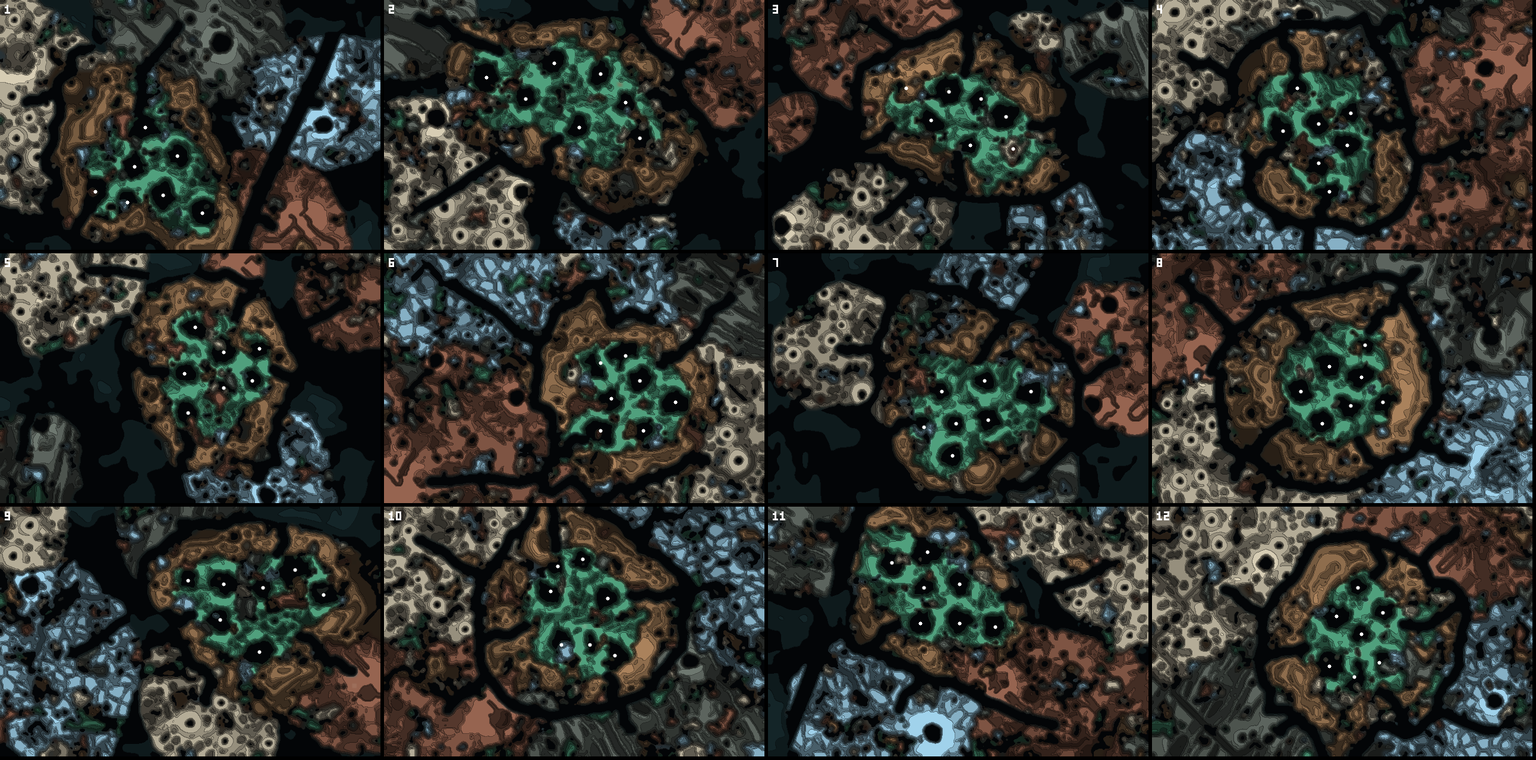
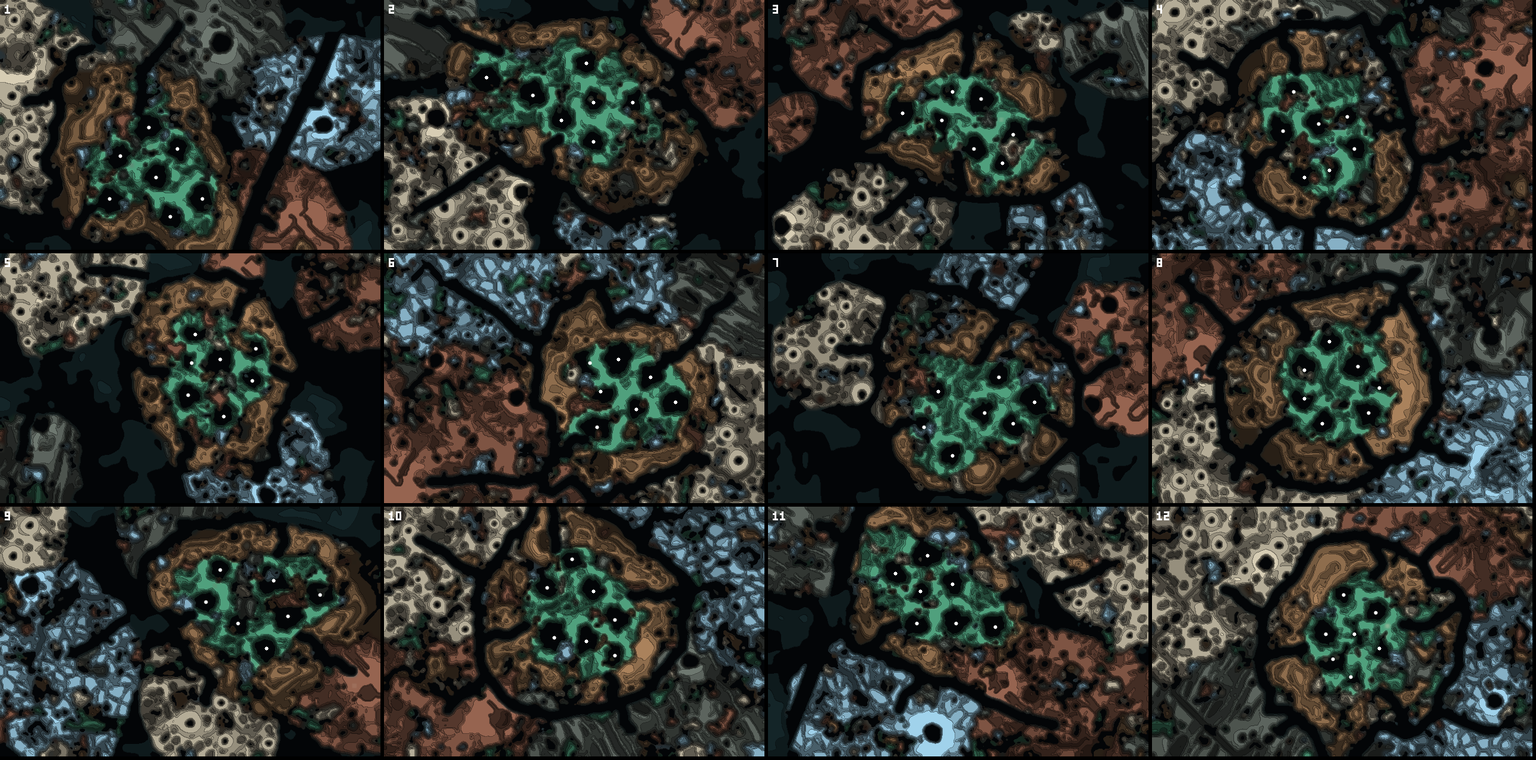
Mounds stay on lagoon floor and clear of each other; README for layouts, patterns and the lab
A mound could land on a border blob of another place inside the lagoon (so it was never
raised and the start sat in open water), or close enough to a neighbour for its rim to
wall in the other's middle. Spots with clear lagoon all round are now taken first, and a
new check fails any map with a start in a wall or off the lagoon.

README: layout styles and knobs, the pattern library, the terrain lab, the tools.
Lab: the seed strip hides while swimming. Screenshots of the lab and the dev panel.

Claude-Session: https://claude.ai/code/session_016iv8YUCfChchVkbnNTN3uN

diff --git a/public/worldgen.js b/public/worldgen.js
@@ -26,7 +26,6 @@ function vnoise(g, x, y){
   return (a(i, j) * (1 - sx) + a(i + 1, j) * sx) * (1 - sy) + (a(i, j + 1) * (1 - sx) + a(i + 1, j + 1) * sx) * sy;
 }
 const fbm = (g, x, y) => vnoise(g, x, y) * 0.55 + vnoise(g, x * 2.03 + 17.1, y * 2.03 + 3.3) * 0.28 + vnoise(g, x * 4.1 + 5.7, y * 4.1 + 29.2) * 0.17;
-const segDist = (x, y, a, b) => { const dx = b.x - a.x, dy = b.y - a.y, L = dx * dx + dy * dy; let t = L ? ((x - a.x) * dx + (y - a.y) * dy) / L : 0; t = t < 0 ? 0 : t > 1 ? 1 : t; const ex = x - a.x - t * dx, ey = y - a.y - t * dy; return Math.sqrt(ex * ex + ey * ey); };
 function blur(a, GX, GY, r){
   const t = new Float32Array(a.length);
   for (let j = 0; j < GY; j++){ let s = 0, c = 0; for (let i = -r; i < GX + r; i++){ if (i + r < GX){ s += a[j * GX + i + r]; c++; } if (i - r - 1 >= 0){ s -= a[j * GX + i - r - 1]; c--; } if (i >= 0 && i < GX) t[j * GX + i] = s / c; } }
@@ -52,7 +51,6 @@ const LAYOUTS = {
   continent:  {off:1,    long:0.45, vary:1,   sea:0,    arc:0.5,  strait:0},
   archipelago:{off:0.6,  long:0.6,  vary:0.8, sea:1,    arc:0.45, strait:0},
   strait:     {off:0.8,  long:0.8,  vary:0.7, sea:0.3,  arc:0.45, strait:1}};
-const LAYOUT_NAMES = Object.keys(LAYOUTS);
 /* 'auto' draws from this list: the ring, the layout closest to the old map, comes up half as often as the others */
 const AUTO = ['ring', 'crescent', 'crescent', 'continent', 'continent', 'archipelago', 'archipelago', 'strait', 'strait'];
 
@@ -507,14 +505,20 @@ function build(o){
   const pang = (dx, dy) => { const q = dx / ((dx < 0 ? -dx : dx) + (dy < 0 ? -dy : dy) || 1); return dy < 0 ? 3 + q : 1 - q; };   /* a pseudo-angle: grows with the true angle, plain arithmetic only */
   {
     const belt = [], pad = p.rin + p.rim, lo = mix(0.5, 0.2, A), hi = mix(0.62, 0.66, A);
-    for (let y = pad; y <= H - pad; y += 60) for (let x = pad; x <= W - pad; x += 60){ const d = dn(x, y); if (d > lo && d < hi) belt.push({x, y}); }
+    /* a spot counts only if it and the ground around it are lagoon: border blobs of other places reach into the
+       lagoon, and a mound can only be raised on lagoon floor */
+    const lagoonAt = (x, y) => zone[cellOf(x, y)] === 0, rr = p.rin * 0.7;
+    const clear = (x, y) => { if (!lagoonAt(x, y)) return false; let hit = 0; for (let k = 0; k < 8; k++) if (lagoonAt(x + rr * dcos(k * PI / 4), y + rr * dsin(k * PI / 4))) hit++; return hit >= 7; };
+    for (let y = pad; y <= H - pad; y += 60) for (let x = pad; x <= W - pad; x += 60){ const d = dn(x, y); if (d > lo && d < hi && lagoonAt(x, y)) belt.push({x, y, clear:clear(x, y)}); }
     const taken = [];
     if (belt.length >= p.mounds * 4){
-      taken.push(belt[Math.floor(r() * belt.length)]);
-      while (taken.length < p.mounds){ let best = null, bv = -1;
+      { const first = belt.filter(q => q.clear), from = first.length ? first : belt; taken.push(from[Math.floor(r() * from.length)]); }
+      /* spots with clear lagoon all round come first; if none of those is far enough from the mounds already placed
+         (a mound's rim must not land on its neighbour's middle), any lagoon spot will do */
+      while (taken.length < p.mounds){ let best = null, bv = -1, any = null, av = -1;
         for (const q of belt){ let md = Infinity; for (const t of taken){ const dx = q.x - t.x, dy = q.y - t.y, v = dx * dx + dy * dy; if (v < md) md = v; }
-          const v = Math.sqrt(md) * (1 + 0.3 * A * fbm(g[3], q.x / 400 + 9, q.y / 400)); if (v > bv){ bv = v; best = q; } }
-        taken.push(best); }
+          const v = Math.sqrt(md) * (1 + 0.3 * A * fbm(g[3], q.x / 400 + 9, q.y / 400)); if (v > av){ av = v; any = q; } if (q.clear && v > bv){ bv = v; best = q; } }
+        taken.push(best && bv > p.rin * 1.9 ? best : any); }
     } else for (let k = 0; k < p.mounds; k++) taken.push(at(a0 + TAU * k / p.mounds + (r() - 0.5) * 0.3, 0.56 * (1 + (r() - 0.5) * 0.12)));
     /* in order round the centre, so each mound's neighbour (for doorways and letter pockets) is the next one along */
     taken.map(q => ({q, a:pang(q.x - cx, q.y - cy)})).sort((u, v) => u.a - v.a).forEach(({q, a}, k) => { const rin = p.rin * (0.85 + r() * 0.3);
@@ -632,7 +636,9 @@ function build(o){
     let lag = 0, mid = 0; for (let n = 0; n < N; n++) if (zone[n] === 0){ lag++; if (E[n] >= 0.14 && E[n] < 0.62) mid++; }
     checks.lagoonMid = lag ? mid / lag : 0;
     checks.mounds = mounds.length;
-    checks.ok = checks.unlinked.length === 0 && checks.small.length === 0 && checks.missing.length === 0 && checks.lagoonMid >= 0.35 && checks.spawnSpread < 0.8 && mounds.length === p.mounds;
+    /* no start may be walled in by its neighbour's rim, or pushed off the lagoon */
+    checks.badStarts = spawns.filter(sp => { const n = cellOf(sp.x, sp.y); return E[n] >= WALL || zone[n] !== 0; }).length;
+    checks.ok = checks.unlinked.length === 0 && checks.small.length === 0 && checks.missing.length === 0 && checks.badStarts === 0 && checks.lagoonMid >= 0.35 && checks.spawnSpread < 0.8 && mounds.length === p.mounds;
     checks.score = (checks.ok ? 10 : 0) - checks.unlinked.length * 2 - checks.small.length * 2 - checks.missing.length + checks.lagoonMid - checks.spawnSpread;
   }
   /* lanes: deep channels, streams and lava channels. Textures fade out over them so travel lanes stay open */

diff --git a/public/lab/terrain.html b/public/lab/terrain.html
@@ -50,6 +50,7 @@
   .strip .th[aria-pressed="true"]{border-color:var(--stain);background:rgb(167 139 250 / .18);color:var(--ink)}
   .strip label{font-size:12px;color:var(--muted);white-space:nowrap} .strip input{width:64px;font:inherit;background:#0d1715;color:var(--ink);border:1px solid var(--edge);border-radius:6px;padding:3px 4px}
   .hud{bottom:auto;top:10px}
+  .strip[hidden]{display:none}
   @media (max-width:820px){ .strip{left:10px} .panel{max-height:calc(100% - 130px)} }
 </style>
 </head>
@@ -165,7 +166,7 @@ const PRESETS = {
 const PLACES = [
   {id:'water', name:'Open water', keys:['DEEP', 'OCEAN'], preset:'none', s:1, base:0, top:0, col:[60, 110, 120]},
   {id:'lagoon', name:'Tide-pool lagoon', keys:['LAGOON'], preset:'spots', s:0.5, base:0.46, top:0.8, col:[80, 160, 125]},
-  {id:'flats', name:'Clay and tidal flats', keys:['FLATS', 'CLAY'], preset:'holes', s:0.45, base:0.6, top:0.8, col:[170, 130, 92]},
+  {id:'flats', name:'Highlands', keys:['FLATS', 'CLAY'], preset:'holes', s:0.45, base:0.6, top:0.8, col:[170, 130, 92]},
   {id:'island', name:'Volcanic island', keys:['SPRING', 'UV', 'ROCK'], preset:'coral', s:0.45, base:0.4, top:1, col:[150, 100, 80]},
   {id:'chimneys', name:'White chimneys', keys:['CHIMNEY', 'PORE', 'POCKET'], preset:'holes', s:0.4, base:0.3, top:1, col:[215, 205, 180]},
   {id:'ice', name:'Ice veins', keys:['ICE', 'BRINE'], preset:'maze', s:0.35, base:0.35, top:1, col:[160, 210, 235]},

diff --git a/README.md b/README.md
@@ -44,7 +44,65 @@ A room opens in a lobby: a mini version of the generated world (a small two-impa
 
 ## The map
 
-The map is a world grown from a seed by `public/worldgen.js`, and tuned in the terrain lab (`/lab/terrain.html`). Meteor impacts make a central lagoon, with ring mounds inside it and craggy highlands around it. Further out are deep channels, craters, volcanoes (big ones with deep calderas), lava channels, hydrothermal chimneys and streams. Depth sets swim speed: walls stop you, the shallows are slow, and the black depths are a little fast. The world is 0.7 of the classic map across, about half the area.
+The map is a world grown from a seed by `public/worldgen.js`, and tuned in the terrain lab (`/lab/terrain.html`). Meteor impacts make a lagoon, with ring mounds inside it and craggy highlands around it. Further out are deep channels, craters, volcanoes (big ones with deep calderas), lava channels, hydrothermal chimneys and streams. Depth sets swim speed: walls stop you, the shallows are slow, and the black depths are a little fast. The world is 0.7 of the classic map across, about half the area.
+
+### Layouts
+
+The big shapes differ from seed to seed. A **layout style** sets how far each trait is pushed, and `auto` (the default) picks a style from the seed:
+
+| Style | What you get |
+|---|---|
+| ring | Closest to the first generated maps: a roundish lagoon near the middle, a channel most of the way round it |
+| crescent | Impacts in a bent row: a long or crescent lagoon, off to one side |
+| continent | The lagoon pushed toward an edge; one or two places take most of the rest |
+| archipelago | Open sea between the outer places, which become islands |
+| strait | A great channel across the whole map, past the lagoon |
+
+Five settings scale the style (`DEFAULTS` in `worldgen.js`):
+
+| Setting | What it does |
+|---|---|
+| `asymmetry` | The master dial. 0 gives the old even layout whatever the style; 1 the style at full strength. Default 0.85 |
+| `offset` | How far the lagoon sits from the middle (1 = as the style says, up to 2) |
+| `elongation` | How long or bent the lagoon is |
+| `variance` | How much outer places differ in size and shape, how uneven the highland rim is, and whether a place gets a second, outlying patch |
+| `sea` | How much open water lies between the outer places |
+
+Each outer place grows from a seed point beyond the rim and owns the land nearest it; the points are spread by always taking the free spot furthest from the others. Mounds are placed the same way inside the lagoon, so starts stay apart whatever its shape. The lobby's mini world uses `layout:'ring'` with `asymmetry:0`.
+
+Every map is checked before it is used, and regrown from the next seed if a check fails (about 1 map in 16; at most 4 tries): sealed water is opened, starts are evenly spaced and none is walled in, every outer place is there with at least 2.5% of the map and touches a channel, the lagoon is mostly middle depths, and there is a lava channel and at least two chimneys.
+
+### Patterns
+
+Each place has its own kind of ground, picked by name (`PLACE_PATTERNS` in `worldgen.js`). A pattern raises and lowers the land a little inside its place, so it changes swim speed lightly. It never adds or removes a wall, never makes new deep water, and stays off channels, streams, lava lanes and chimney rings.
+
+| Pattern | Looks like | Made by | Default for |
+|---|---|---|---|
+| ripples | soft parallel swells that bend to the contours | stripes | lagoon |
+| terraces | steps along the contour lines | stripes read off the land's height | highlands |
+| streaks | grooves running downhill, like lava flows | noise smeared along the slope | volcanic island |
+| pits | a plateau pocked with round pits | scattered points (Voronoi) | chimneys |
+| cracks | plates split by cracks that run along the contours | scattered points | ice |
+| ridges | long sharp crests side by side | stretched, folded noise | ocean ridge |
+| pebbles | round bumps | scattered points | |
+| spots, labyrinth, stripes, coral, holes, worms | the reaction-diffusion looks | Gray-Scott, grown once on a 48-cell square that repeats | |
+
+Each place has three knobs: **size**, **strength** and **follows the land** (how much it bends to the contours; for streaks, how far they run downhill). Two more apply everywhere: `pattern` (all strengths times this; 0 = none) and `contrast` (soft relief to crisp shapes).
+
+Patterns are laid on in one pass, about 20 ms, so they are on for everyone, rooms included. A reaction-diffusion pattern adds about a tenth of a second the first time it is used on a device. (The earlier full-map Gray-Scott growth took 3 s and is gone.)
+
+### The terrain lab
+
+`/lab/terrain.html` is where layouts and patterns are tuned:
+
+- **The strip along the bottom** shows ten seeds; click one, page with ◀ ▶, type a seed, or press `[` and `]`. The thumbnails redraw when a setting changes, so a layout knob shows its effect on ten maps at once.
+- **Layout**: the style buttons and the five knobs.
+- **Patterns**: click a place to open it, pick a pattern from the pictures, and move its knobs. Pattern changes show at once, without regrowing the map.
+- **Landforms** holds the older settings (mounds, craters, channels and so on). **View** has outlines, swim speed, sealed water and streams.
+- **Swim** puts a test strand in the first mound.
+- **Copy settings** puts everything changed on the clipboard as JSON. To try it in the game, press **Paste settings** in the dev panel. To make it everyone's default, copy the values into `DEFAULTS` (the `settings` part) and `PLACE_PATTERNS` (the `patterns` part) in `public/worldgen.js`. The settings also ride in the page link, so a link reproduces a map.
+
+`node tools/mapsheet.mjs --out sheet.png` draws 12 seeds side by side with no browser (`--places` for a close-up of each place, `--swatches` for the pattern library, `--set '{"layout":"strait"}'` for any setting). `node tools/mapstats.mjs --n 200` reports failed checks, regrown maps and build times over many seeds. The pictures in `docs/mapgen/` were made this way.
 
 **Fallback:** the old painted map is still there. In a room, the host ticks **Classic map** in the lobby, or opens the room with `?map=classic`. Solo play takes `?map=classic` too. Use it if the world runs slowly on a device.
 
@@ -80,7 +138,7 @@ The world has two looks, **Filled** and **Lines**, switched with the ◯ button 
 
 Presets (filled, lines + depth, lines, dim fill) load starting values into the look being edited. **Copy settings** puts the look on the clipboard as JSON, which can be pasted into `freshLooks()` in `public/index.html` to make it everyone's default. Raise `LOOKS_V` at the same time, so looks saved on devices before then are replaced.
 
-The server and every browser build the same map from the seed: the generator uses only basic arithmetic. The room also sends a fingerprint of the map, and a browser that grew a different one says so in its console. `node test/world.mjs` plays a round on a world. `node test/room-world.mjs` checks a world room against `wrangler dev`. The reaction-diffusion textures are off in the game for now: they take 2-3 s to grow.
+The server and every browser build the same map from the seed: the generator uses only basic arithmetic. The room also sends a fingerprint of the map, and a browser that grew a different one says so in its console. `node test/worldgen.mjs` holds the generator to its promises over a spread of seeds, every layout and every pattern (same seed, same map; checks pass; patterns never touch walls or lanes). `node test/world.mjs` plays a round on a world. `node test/room-world.mjs` checks a world room against `wrangler dev`.
 
 ## Picking up letters
 
@@ -183,7 +241,7 @@ Add `?dev` to any link (`rna.game/?dev`, `rna.game/period3?dev`). The panel's se
 
 **Segments** adjusts each segment type, one at a time (pick it from the row of buttons). Values are grouped into **What it does** (reach, rest and recovery times, bonuses, chances) and **How it looks** (spike lengths when active and resting, chamber size, goo). The Cleaver, for example, has strike reach, rest after a cut, regrow time, the cut-off piece's timings and reach, and spike length active and resting. A changed value is shown in bold with ↺ to put it back, and • marks a changed segment. Changes are remembered on that device. Game values only change single-player games, since a room runs the server's copy. **Copy settings** puts the changes on the clipboard as JSON, to be baked in as the new defaults (in each entry of `segments.js`, or `DEFAULTS` in `rna-strand.js` for the `S.` ones). To make a new value adjustable, add it to the entry's `tune` list (see the top of `segments.js`).
 
-**Terrain** (single player only; a room grows the server's map) adjusts the generated world: the lagoon and channels, mounds, borders between places, features and letter spread (the settings in `worldgen.js` `DEFAULTS`), and the reaction-diffusion texture, both for all places (strength, how much it follows the slope, growth steps) and for one place at a time (strength, pattern size, feed, kill, follows slope: `TEXTURES`). The texture is off by default because it adds a few seconds to building the map on every device. Changes take effect with **Rebuild map** (same seed, the round restarts) or **New seed**, and are remembered on that device.
+**Terrain** (single player only; a room grows the server's map) adjusts the generated world: the layout style and its five knobs, the lagoon and channels, mounds, borders between places, features and letter spread (the settings in `worldgen.js` `DEFAULTS`), and the patterns: strength and soft-to-crisp for all places, and for one place at a time its pattern (picked from small pictures), size, strength and how much it follows the land (`PLACE_PATTERNS`). Changes take effect with **Rebuild map** (same seed, the round restarts) or **New seed**, and are remembered on that device. **Copy settings** gives the same JSON as the terrain lab, which shows changes live and is the better place to tune.
 
 In single-player the panel also has test buttons: add any segment to your strand; make a fragment, meteorite or UV flash where the pointer is; damage your strand; run time 4× faster; skip a minute; end the round; clear the bots. In rooms it only shows information, so nobody can cheat in a shared game.
 
